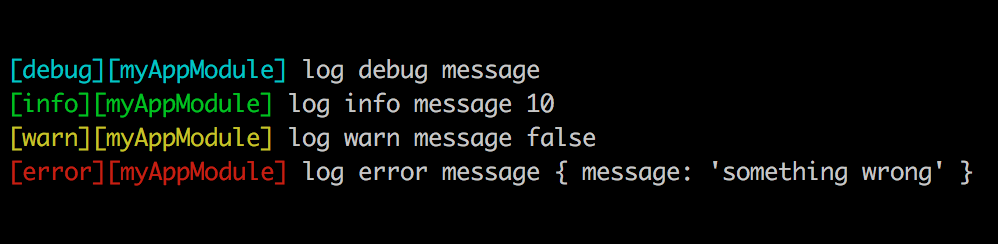
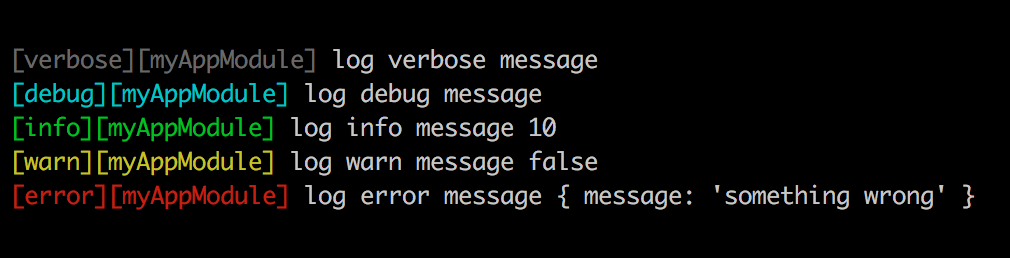
add verbose method

Changed region(s): [[0.0, 0.1721, 0.994, 0.832]]

diff --git a/test/index.js b/test/index.js
@@ -64,6 +64,7 @@ describe('logger', function () {
 
     it('log methods', function () {
         var overlord = zerg.create('overlord');
+        assert.isFunction(overlord.verbose, 'has verbose method');
         assert.isFunction(overlord.debug, 'has info method');
         assert.isFunction(overlord.info, 'has info method');
         assert.isFunction(overlord.warn, 'has warn method');

diff --git a/src/transport/console.js b/src/transport/console.js
@@ -7,7 +7,8 @@ var codes = {
     cyan: [36, 39],
     red: [31, 39],
     green: [32, 39],
-    yellow: [33, 39]
+    yellow: [33, 39],
+    gray: [90, 39]
 };
 
 var styles = {};
@@ -24,6 +25,7 @@ Object.keys(codes).forEach(function (key) {
 });
 
 var map = {
+    verbose: styles.gray,
     debug: styles.cyan,
     error: styles.red,
     info: styles.green,

diff --git a/example/gettingStarted.js b/example/gettingStarted.js
@@ -9,6 +9,7 @@ zerg.use(transport.console);
 var log = zerg.create('myAppModule');
 
 // usage
+log.verbose('log verbose message');
 log.debug('log debug message');
 log.info('log info message', 10);
 log.warn('log warn message', false);

diff --git a/src/index.js b/src/index.js
@@ -134,7 +134,7 @@ class Zerg {
 
 }
 
-const levels = ['debug', 'info', 'warn', 'error'];
+const levels = ['verbose', 'debug', 'info', 'warn', 'error'];
 
 /**
  * Zerg module

diff --git a/README.md b/README.md
@@ -33,6 +33,7 @@ zerg.use(transport.console);
 var log = zerg.create('myAppModule');
 
 // usage
+log.verbose('log verbose message');
 log.debug('log debug message');
 log.info('log info message', 10);
 log.warn('log warn message', false);
